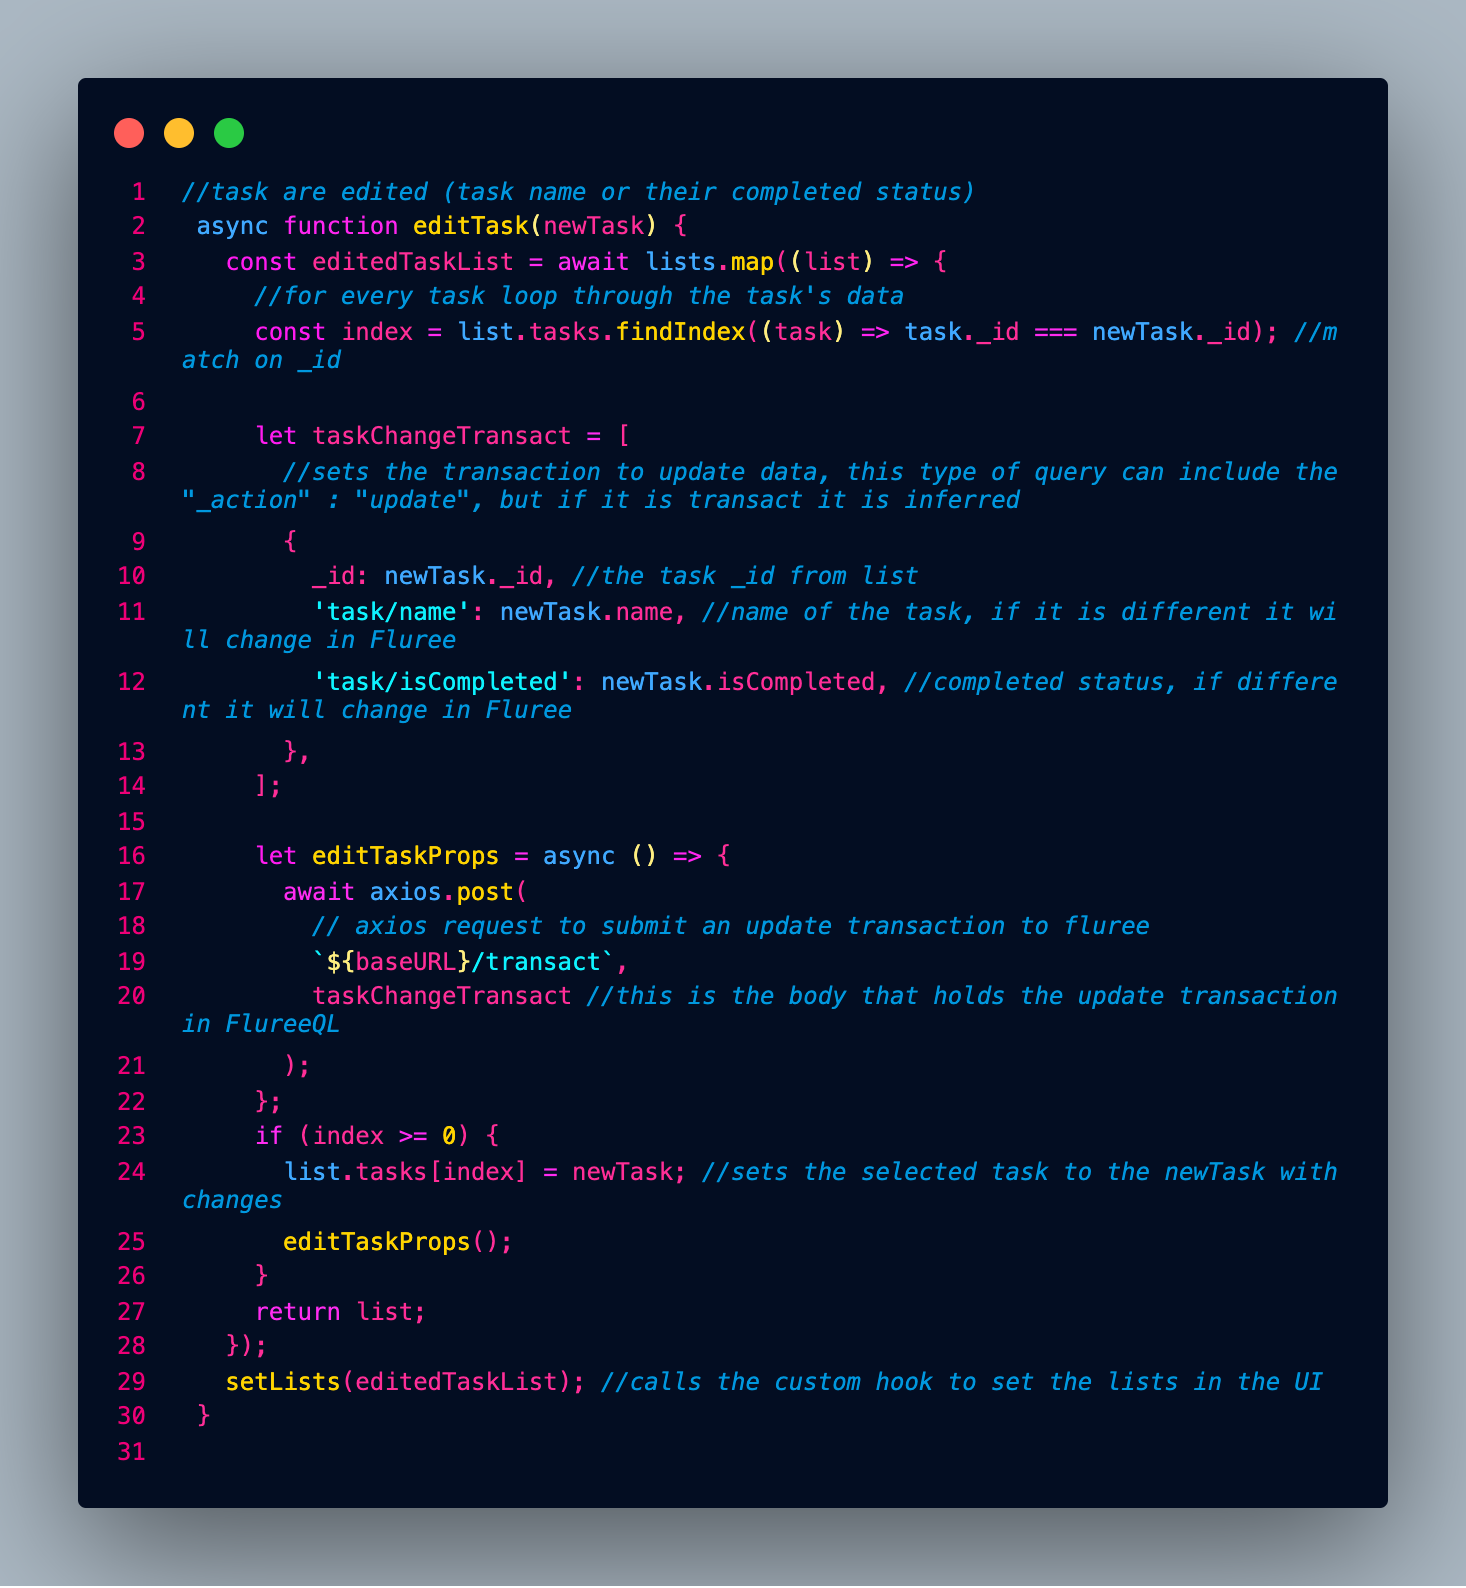
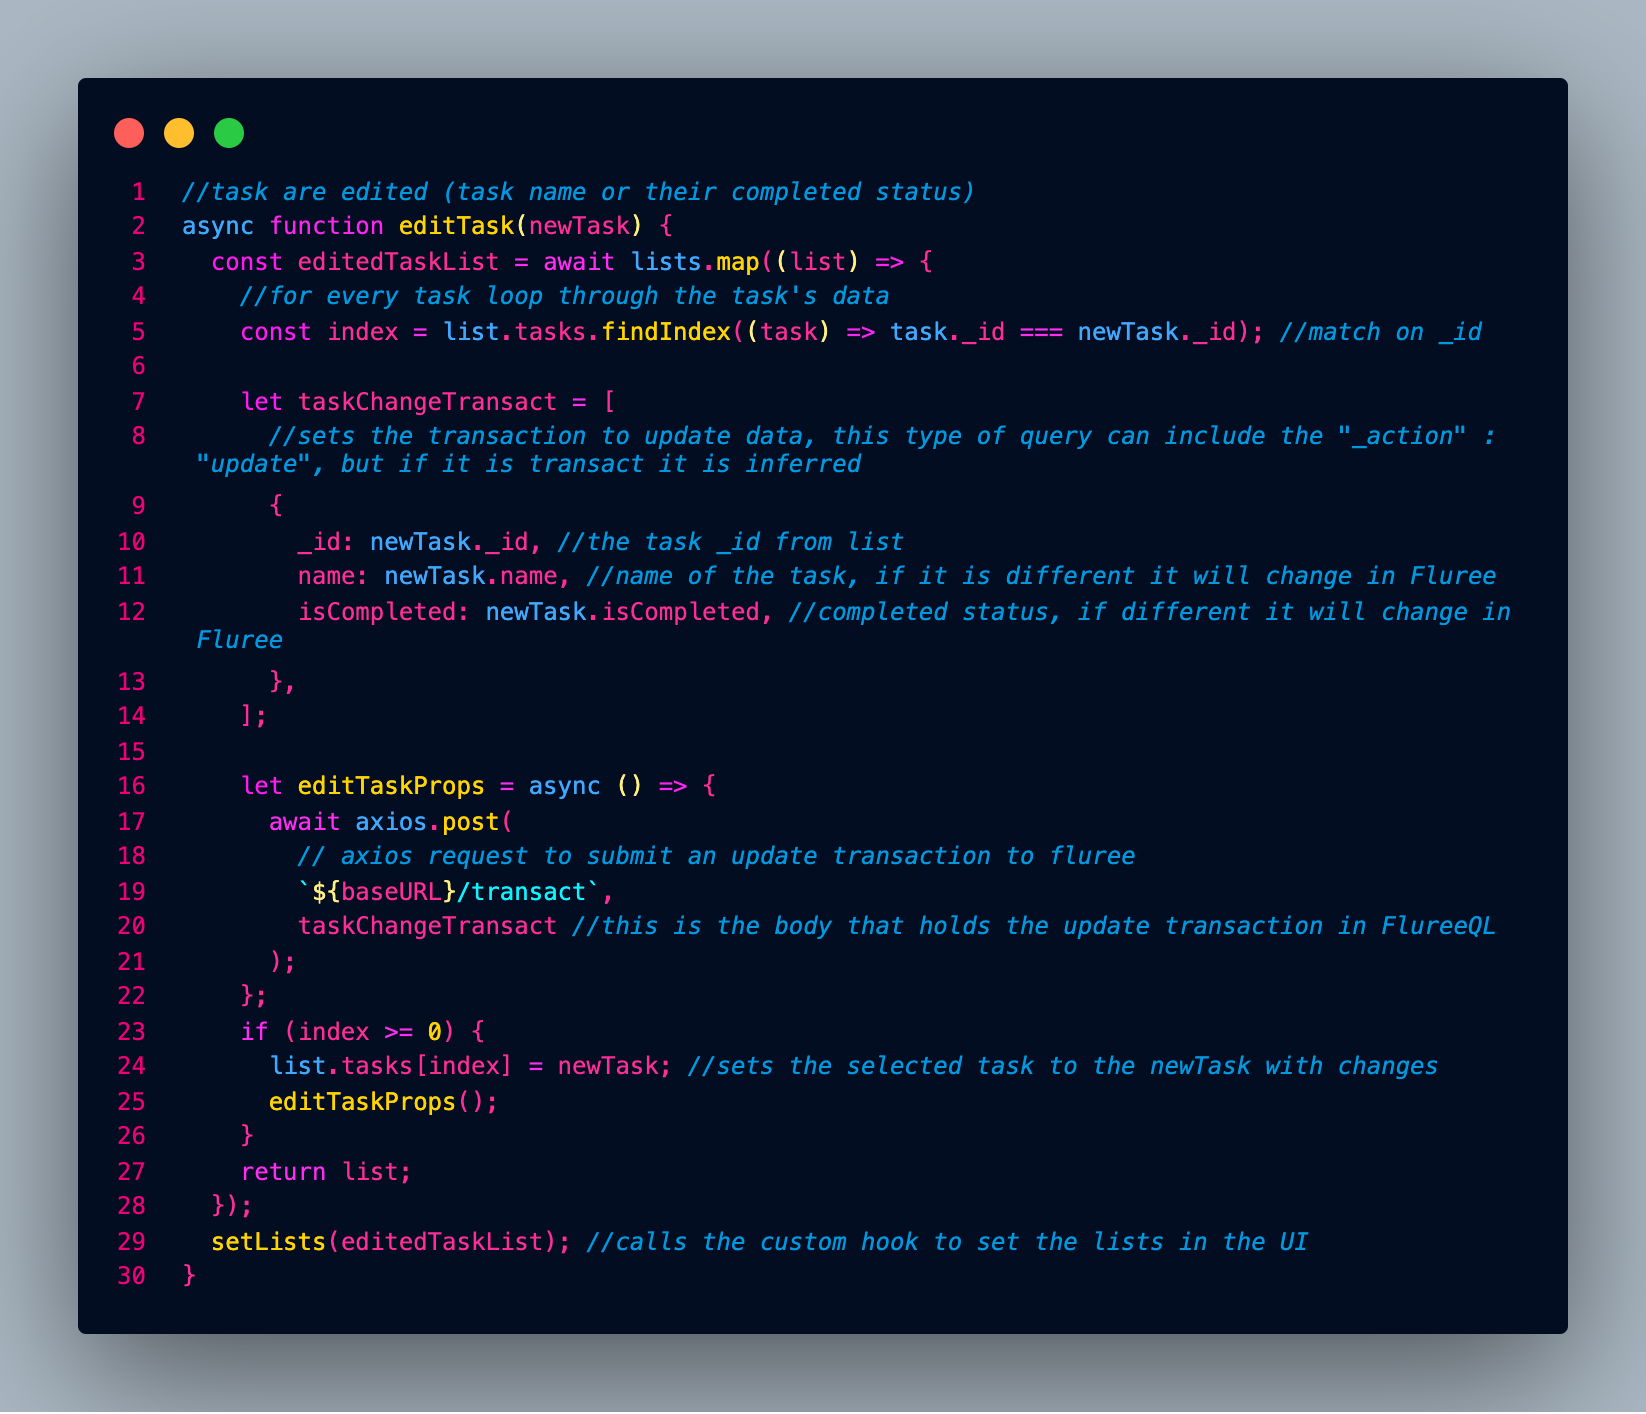
updating data section

diff --git a/src/ListContext.js b/src/ListContext.js
@@ -231,8 +231,8 @@ const ListProvider = (props) => {
         //sets the transaction to update data, this type of query can include the "_action" : "update", but if it is transact it is inferred
         {
           _id: newTask._id, //the task _id from list
-          'task/name': newTask.name, //name of the task, if it is different it will change in Fluree
-          'task/isCompleted': newTask.isCompleted, //completed status, if different it will change in Fluree
+          name: newTask.name, //name of the task, if it is different it will change in Fluree
+          isCompleted: newTask.isCompleted, //completed status, if different it will change in Fluree
         },
       ];
 

diff --git a/README.md b/README.md
@@ -347,10 +347,12 @@ Updating data uses the same structure and syntax as transacting new data to Flur
  <img src='/src/Images/delete_task.png' alt='deleting a task' width='600'>
 </p>
 
-`deleteTaskFromFluree` holds the transact item that deletes the task. By matching the `_id` to the intended task and uses the `_action` transact key to specify a deletion. for more on deleting data refer to the [deleting data](https://docs.flur.ee/docs/1.0.0/transact/deleting-data) section. 
+`deleteTask` holds the asynchronous function `deleteTaskFromFluree` that deletes the task. By matching the `_id` to the intended task then uses the `_action` transact key to specify a deletion when sent to Fluree. For more on deleting data refer to the [deleting data](https://docs.flur.ee/docs/1.0.0/transact/deleting-data) section.
 
 #### Editing tasks
 
  <p width="100%" align="center">
  <img src='/src/Images/edit_task.png' alt='importing collection schema' width='600'>
 </p>
+
+Similar to the way we delete tasks above,`editTasks` matches the task `_id` and includes the data change for the name of the task and completion status. For more detail updating data refer to the [updating data](https://docs.flur.ee/docs/1.0.0/transact/updating-data) section.
